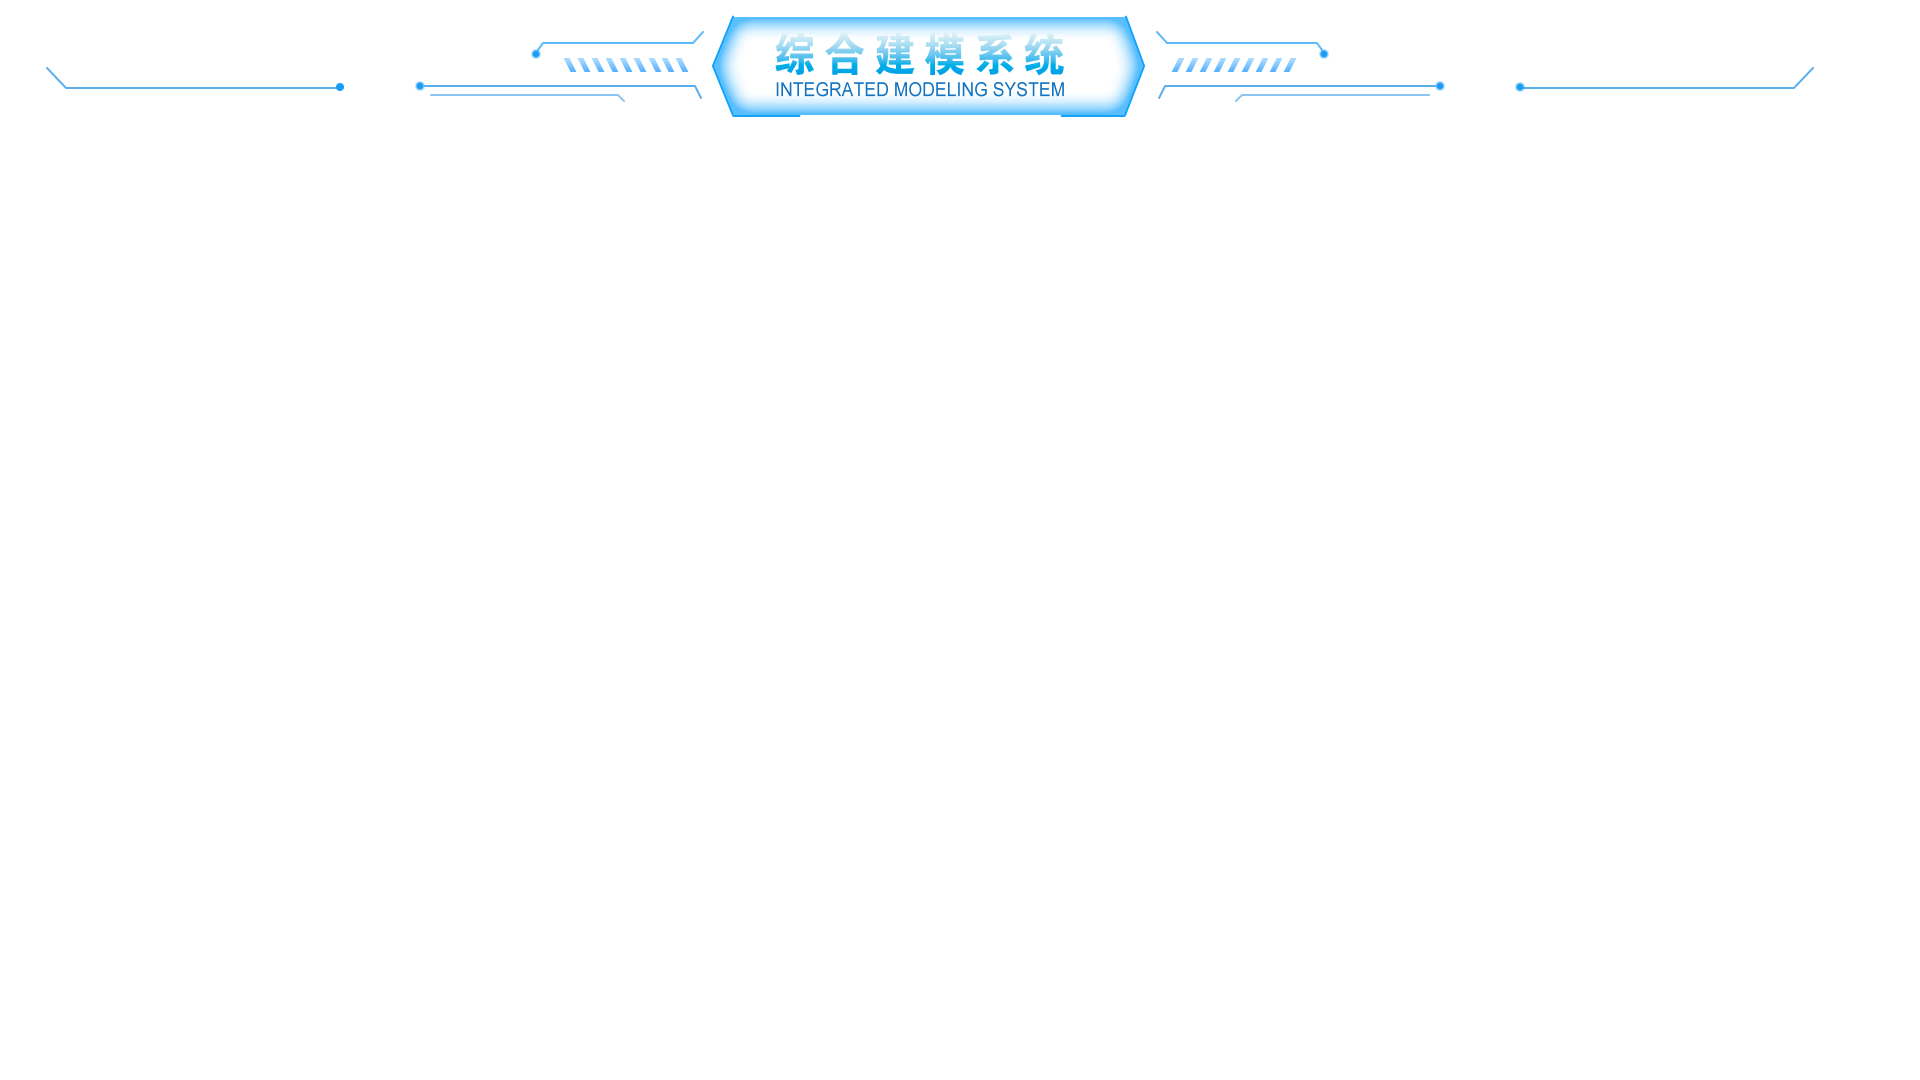
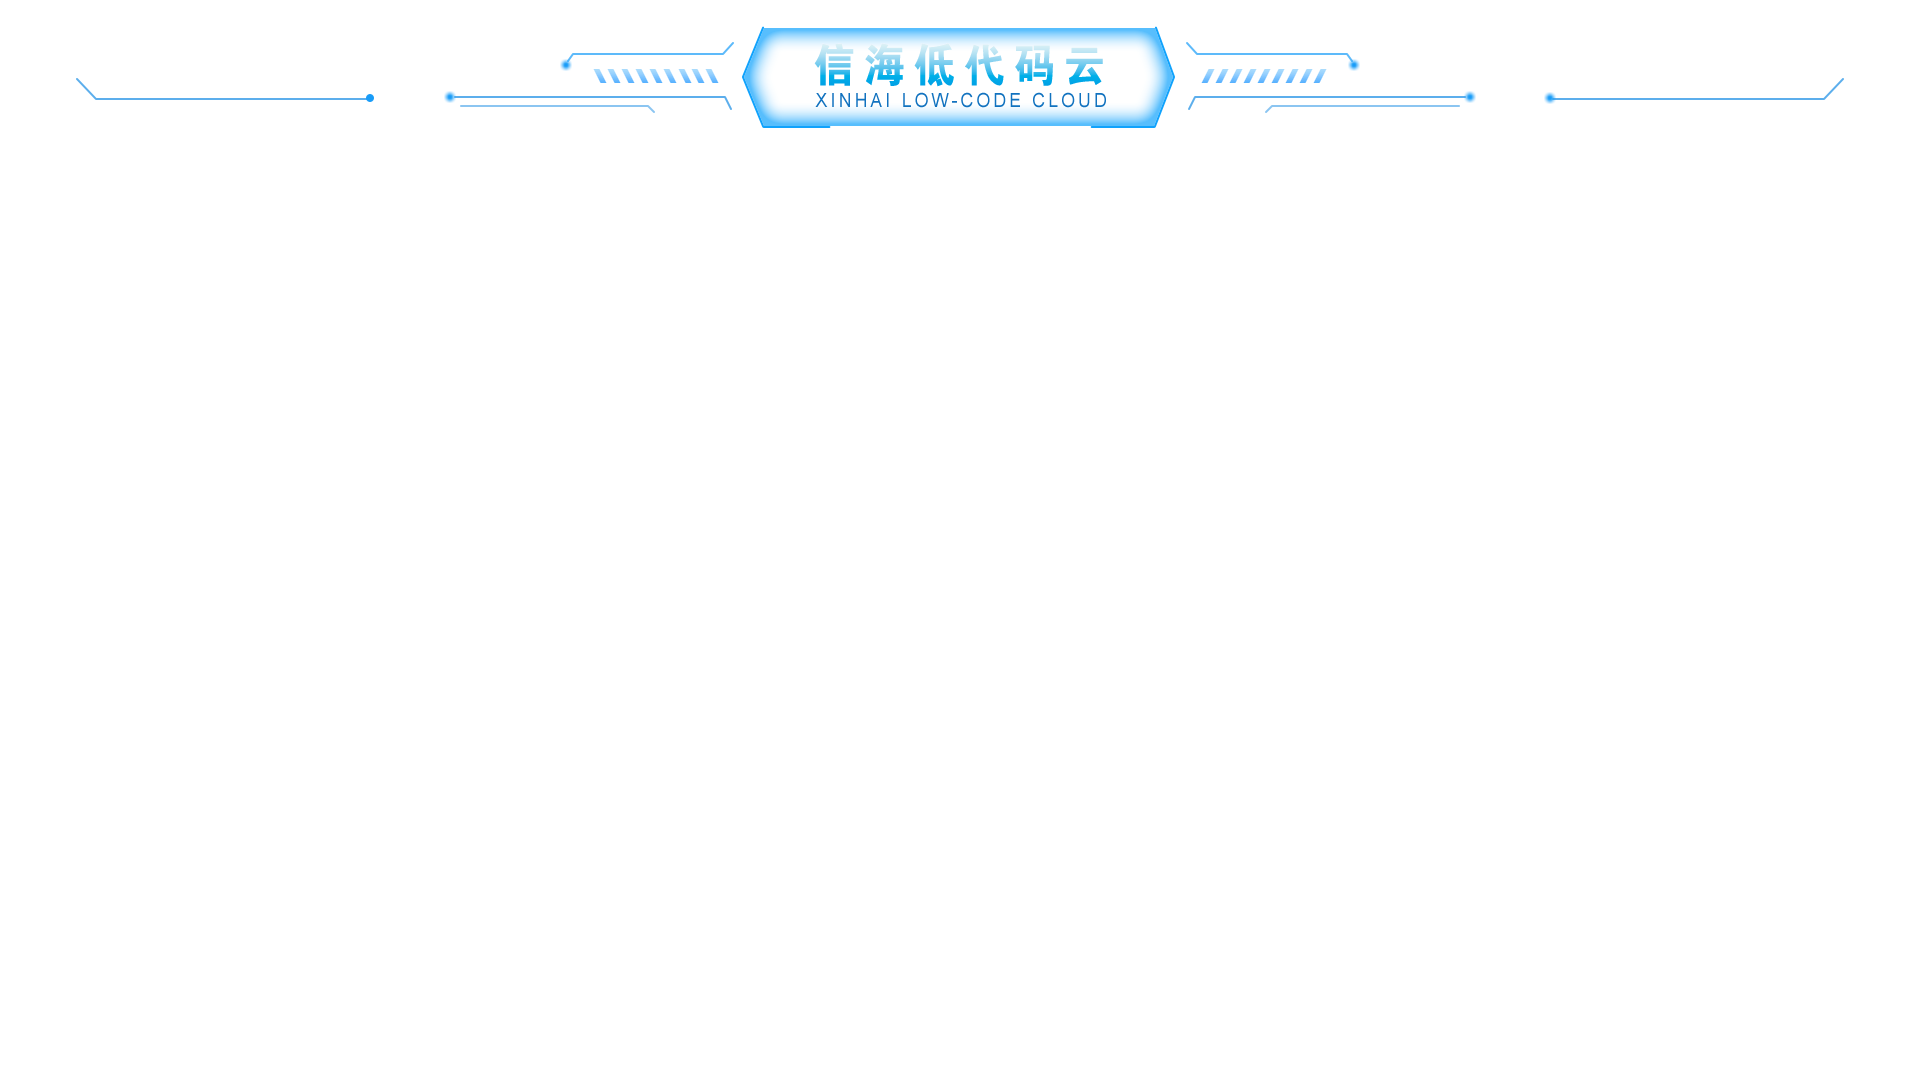
修改logo，组态图字体颜色，首页链接

Changed region(s): [[0.2188, 0.0, 0.75, 0.1222], [0.7812, 0.0611, 0.8125, 0.0917], [0.0312, 0.0611, 0.0625, 0.0917]]

diff --git a/renren-admin/src/main/resources/templates/modules/sys/home.html b/renren-admin/src/main/resources/templates/modules/sys/home.html
@@ -90,13 +90,13 @@
                         <table class="menu">
                             <tr>
                                 <td class="menuchild">
-                                    <a href="modelalgorithms.html">
+                                    <a href="${request.contextPath}/index.html#modules/sys/modelalgorithms.html">
                                         <img class="icon" id="icon-03" src="../../statics/images/home/icon-03.png" />
                                         <p class="title">采集建模</p>
                                     </a>
                                 </td>
                                 <td class="menuchild">
-                                    <a href="modelbusiness.html">
+                                    <a href="${request.contextPath}/index.html#modules/sys/modelbus.html">
                                         <img class="icon" id="icon-04" src="../../statics/images/home/icon-04.png" />
                                         <p class="title">业务建模</p>
                                     </a>
@@ -120,90 +120,6 @@
                     </td>
                 </tr>
             </table>
-<!--        <table valign="center" align="center">-->
-<!--            <tr>-->
-<!--                <td>-->
-<!--                    <a href="#">-->
-<!--                    <img class="icon" id="icon-01" src="../../statics/images/home/icon-01.png" />-->
-<!--                    <p class="title">算法工程</p>-->
-<!--                    </a>-->
-<!--                </td>-->
-<!--                <td>-->
-<!--                    <a href="#">-->
-<!--                    <img class="icon" id="icon-02" src="../../statics/images/home/icon-02.png" />-->
-<!--                    <p class="title">SQL监控</p>-->
-<!--                    </a>-->
-<!--                </td>-->
-<!--                <td>-->
-<!--                    <a href="modelalgorithms.html">-->
-<!--                    <img class="icon" id="icon-03" src="../../statics/images/home/icon-03.png" />-->
-<!--                    <p class="title">采集建模</p>-->
-<!--                    </a>-->
-<!--                </td>-->
-<!--                <td>-->
-<!--                    <a href="modelbus.html">-->
-<!--                    <img class="icon" id="icon-04" src="../../statics/images/home/icon-04.png" />-->
-<!--                    <p class="title">业务建模</p>-->
-<!--                    </a>-->
-<!--                </td>-->
-<!--                <td>-->
-<!--                    <a href="#">-->
-<!--                    <img class="icon"  id="icon-05" src="../../statics/images/home/icon-05.png" />-->
-<!--                    <p class="title">算法库</p>-->
-<!--                    </a>-->
-<!--                </td>-->
-<!--                <td>-->
-<!--                    <a href="#">-->
-<!--                    <img class="icon"  id="icon-06" src="../../statics/images/home/icon-06.png" />-->
-<!--                    <p class="title">管理员管理</p>-->
-<!--                    </a>-->
-<!--                </td>-->
-<!--                <td>-->
-<!--                    <a href="#">-->
-<!--                        <img class="icon"  id="icon-07" src="../../statics/images/home/icon-07.png" />-->
-<!--                        <p class="title">数据源</p>-->
-<!--                    </a>-->
-<!--                </td>-->
-<!--            </tr>-->
-<!--                <td>-->
-<!--                    <a href="log.html">-->
-<!--                    <img class="icon"  id="icon-08" src="../../statics/images/home/icon-08.png" />-->
-<!--                    <p class="title">系统日志</p>-->
-<!--                    </a>-->
-<!--                </td>-->
-<!--                <td>-->
-<!--                    <a href="#">-->
-<!--                    <img class="icon"  id="icon-09" src="../../statics/images/home/icon-09.png" />-->
-<!--                    <p class="title">部门管理</p>-->
-<!--                    </a>-->
-<!--                </td>-->
-<!--                <td>-->
-<!--                    <a href="#">-->
-<!--                    <img  class="icon"  id="icon-10" src="../../statics/images/home/icon-10.png" />-->
-<!--                    <p class="title">角色管理</p>-->
-<!--                    </a>-->
-<!--                </td>-->
-<!--                <td>-->
-<!--                    <a href="#">-->
-<!--                    <img class="icon"  id="icon-11" src="../../statics/images/home/icon-11.png" />-->
-<!--                    <p class="title">装备建模</p>-->
-<!--                    </a>-->
-<!--                </td>-->
-<!--                <td>-->
-<!--                    <a href="#">-->
-<!--                    <img  class="icon"  id="icon-12" src="../../statics/images/home/icon-12.png" />-->
-<!--                    <p class="title">定时任务</p>-->
-<!--                    </a>-->
-<!--                </td>-->
-<!--                <td>-->
-
-<!--                </td>-->
-<!--                <td>-->
-
-<!--                </td>-->
-
-<!--            </tr>-->
-<!--        </table>-->
         </div>
     </div>
 </div>

diff --git a/renren-admin/src/main/resources/statics/gojs/samples/show.js b/renren-admin/src/main/resources/statics/gojs/samples/show.js
@@ -119,7 +119,7 @@ function init() {
                 return baseIP+"sys/sifanydataimage/image/"+geo+".svg";
             }
             function textStyle() {
-                return { font: "9pt  Segoe UI,sans-serif", stroke: "#000" };
+                return { font: "9pt  Segoe UI,sans-serif", stroke: "#fff" };
             }
             function makePort(name, spot, output, input) {
                 // the port is basically just a small transparent square
